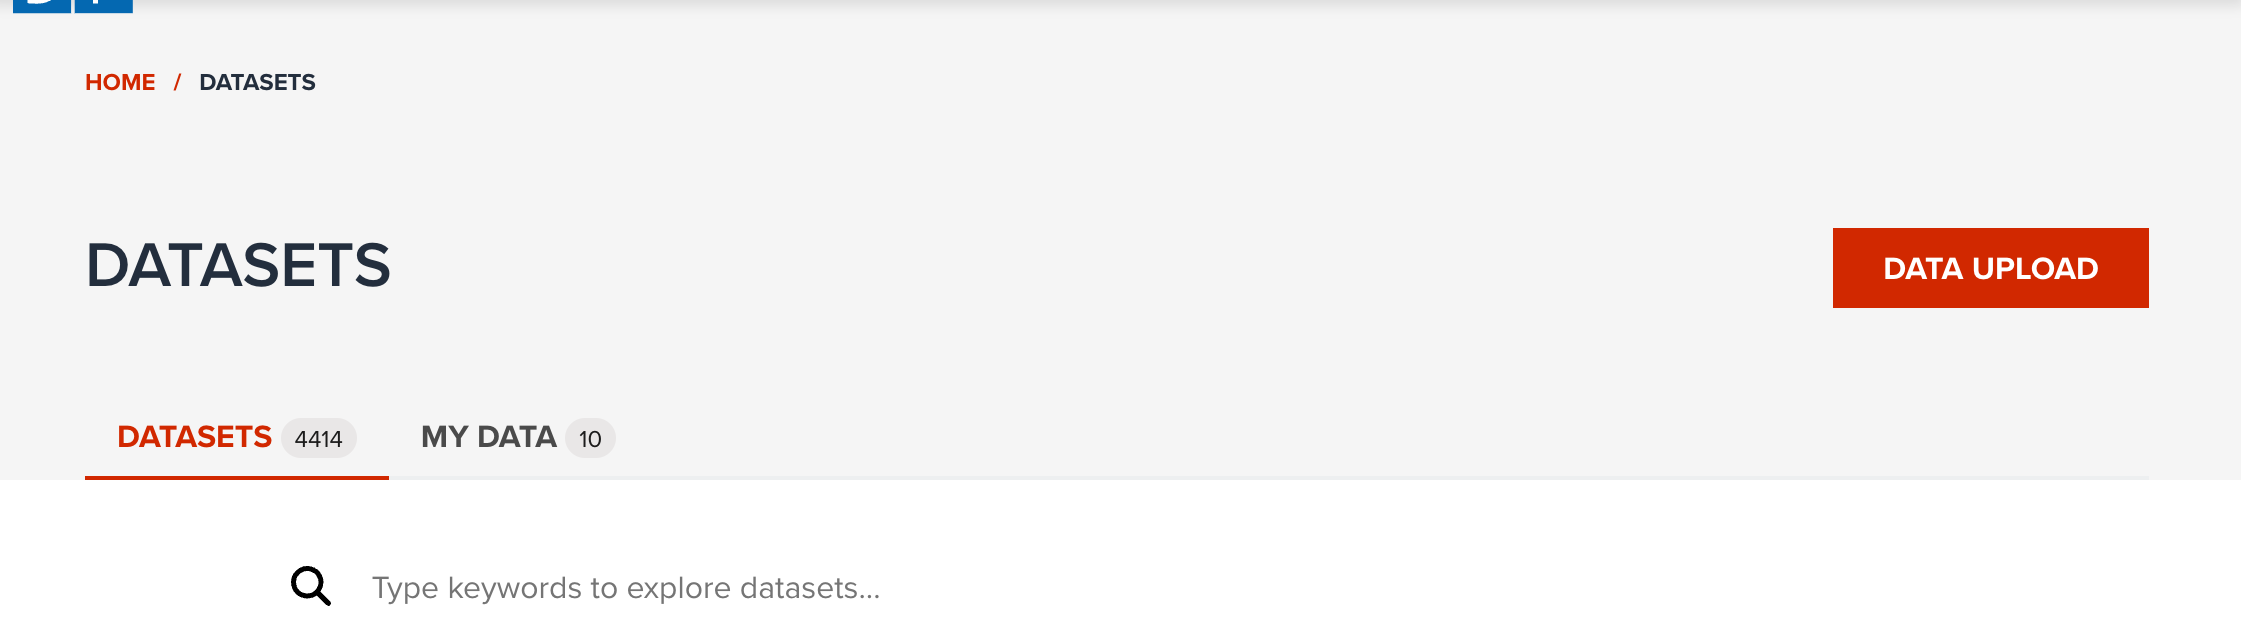
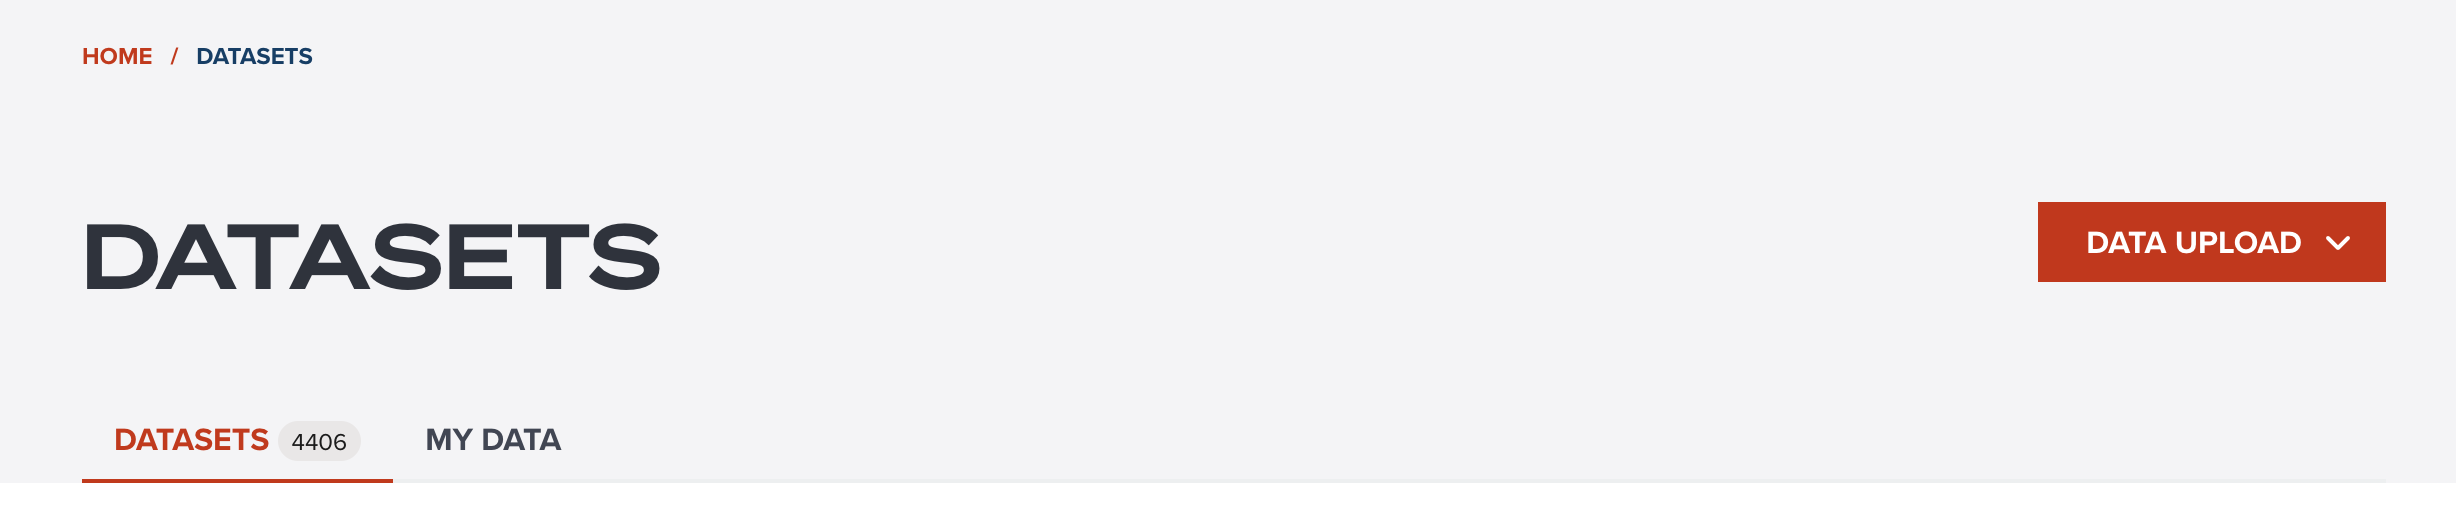
doc: added doc for remote file registration

diff --git a/sites/geohub/src/routes/(app)/data/+page.svelte b/sites/geohub/src/routes/(app)/data/+page.svelte
@@ -134,6 +134,7 @@
 					tooltip: 'Register a cloud optiomized file from remote source',
 					callback: () => {
 						isDialogOpen = true;
+						externalUrl = '';
 					}
 				}
 			]

diff --git a/documentation/docs/data/data_remotefile_register.md b/documentation/docs/data/data_remotefile_register.md
@@ -1,0 +1,54 @@
+---
+title: Registering a remote source
+---
+
+# Registering a remote source
+
+GeoHub also offers you to register a remote file source into GeoHub database.
+
+---
+
+## Remote file registration menu
+
+To register a remote file, click a menu _Register remote file_ on the dropdown menu of **DATA UPLOAD** button.
+
+![Register remote file menu under upload button](../assets/data/remote_register_1.png)
+
+<!-- .element style="height: 100px" -->
+
+---
+
+## Paste remote file URL
+
+Copy and paste a remote file URL to the textbox on the dialog, then click **REGISTER** button.
+
+![Register remote file dialog](../assets/data/remote_register_2.png)
+
+<!-- .element style="height: 300px" -->
+
+---
+
+## Supporting formats for remote files
+
+Currently, GeoHub supports:
+
+- **Cloud Optimized GeoTiff (COG)**: Raster dataset
+- **PMTiles**: Vector Tiles dataset
+
+--
+
+A remote URL must be a public data source.
+
+Furthermore, PMTiles must be _pbf_ format and includes _vector_layers_ and _tilestats_ properties in metadata since GeoHub requires statistics to generate GUI. Raster format in PMTiles is not supported.
+
+---
+
+## Metadata registration
+
+After clicking **REGISTER** button, you will be redirected to data registration page as described in the last section of **Uploading your own data**.
+
+---
+
+## Next step
+
+In next section, you are going to publish the first dataset in GeoHub.

diff --git a/documentation/docs/data/data_upload.md b/documentation/docs/data/data_upload.md
@@ -129,4 +129,4 @@ Note. Each number of instruction is corresponded to the number on the above figu
 
 ## Next step
 
-In next section, you are going to publish the first dataset in GeoHub.
+In next section, you are going to learn how to register a remote file source other than uploading.
